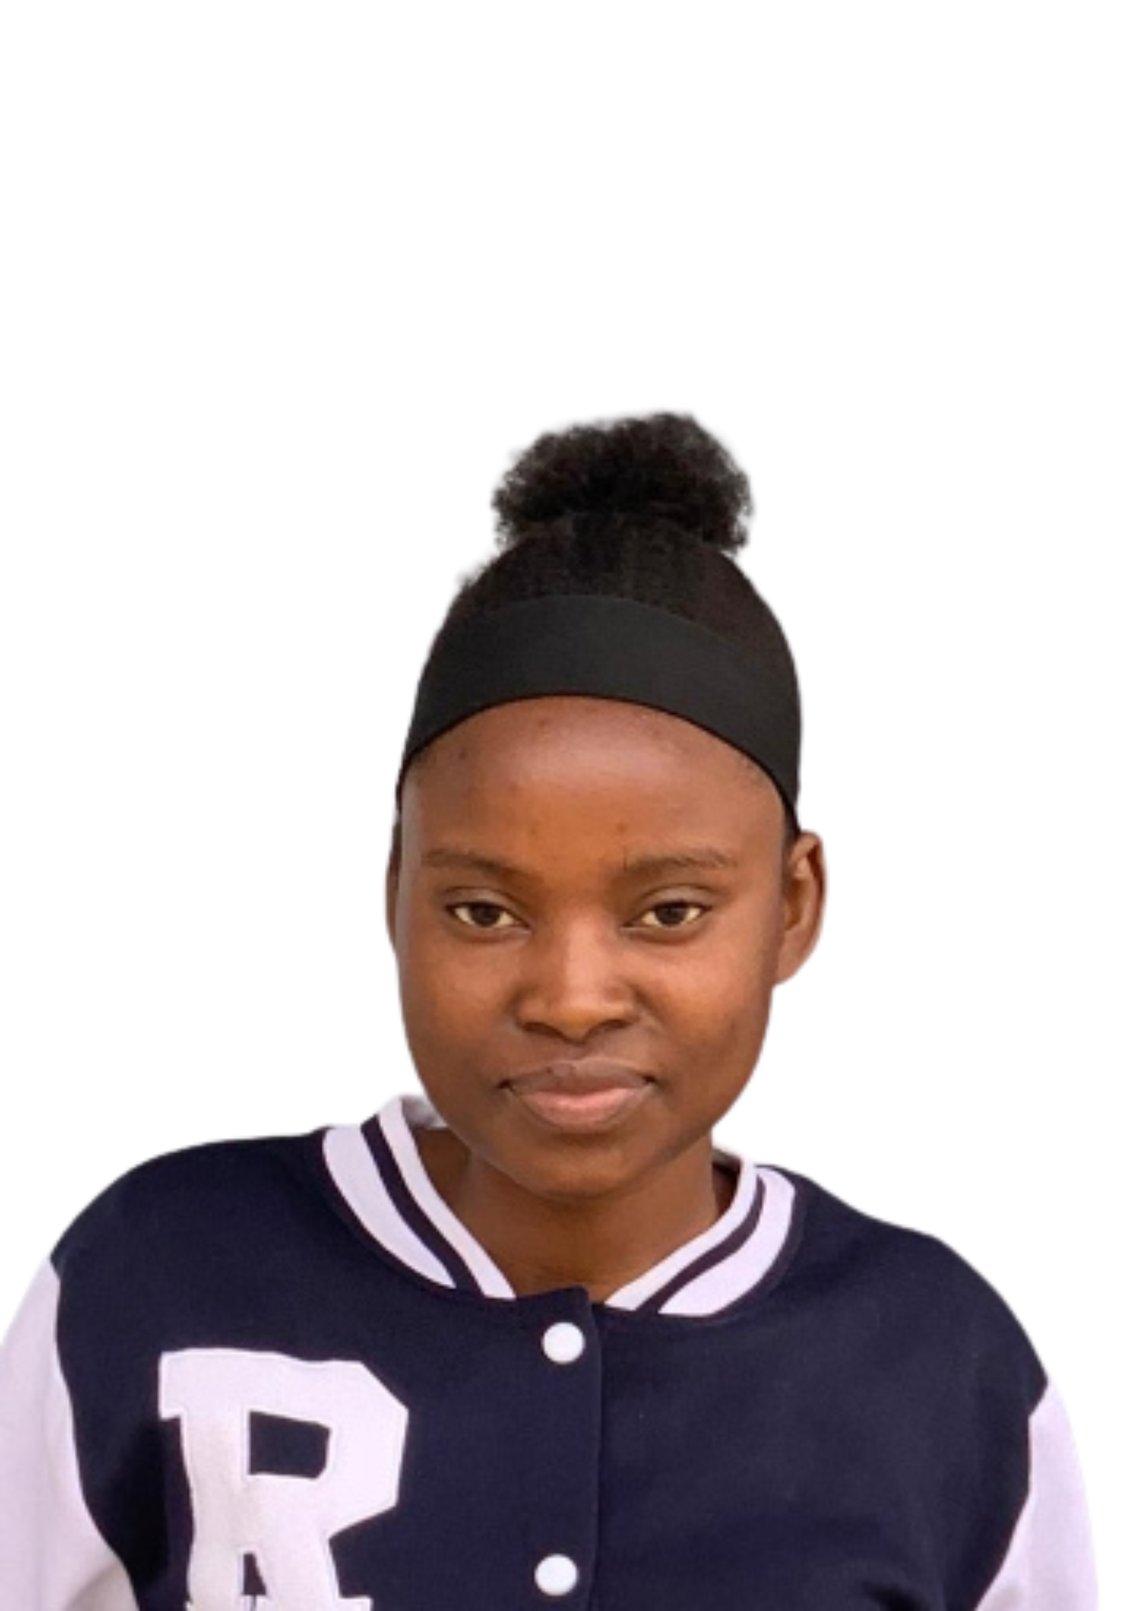
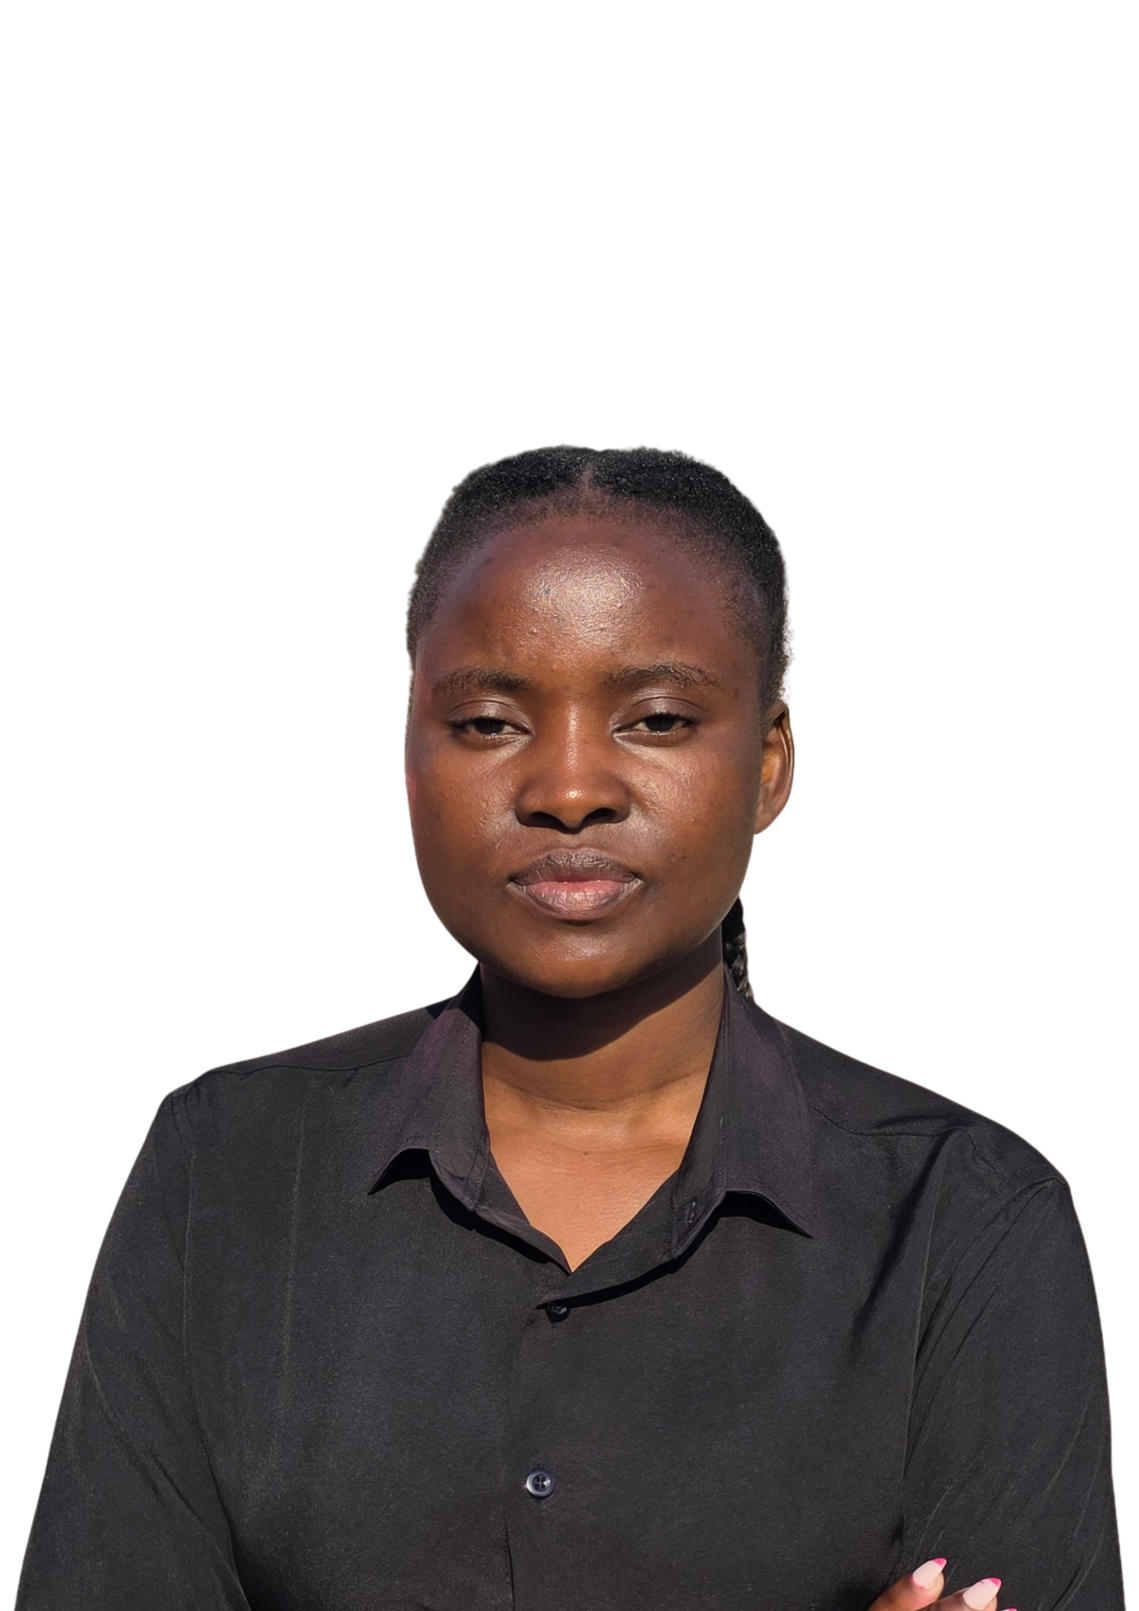
Patch 0.2.0

diff --git a/lib/organization-pages.ts b/lib/organization-pages.ts
@@ -52,28 +52,28 @@ export const organizationPages: Record<string, OrganizationPageData> = {
     ],
   },
   mifi: {
-    name: 'Mifi Business Solutions',
-    eyebrow: 'Mifi Business Solutions',
-    headline: 'Microfinance support through daily loans',
-    description: 'Mifi Business Solutions is a microfinance company specializing in daily loans for customers who need practical short-term financial support.',
+    name: 'Mifi Goods and Supply',
+    eyebrow: 'Mifi Goods and Supply',
+    headline: 'Goods and supply for everyday needs',
+    description: 'Mifi Goods and Supply sources and supplies practical goods for agents, businesses, and communities.',
     heroImage: '/images/hami-hero-mifi.png',
-    popular: ['Daily loans', 'Microfinance', 'Short-term support'],
-    stats: ['Loan support', 'Daily repayments', 'Customer service'],
+    popular: ['Goods supply', 'Product sourcing', 'Distribution'],
+    stats: ['Supply support', 'Reliable delivery', 'Agent service'],
     employerTitle: 'For Customers',
-    employerText: 'Access daily loan support designed for practical business and personal finance needs.',
+    employerText: 'Find practical goods and dependable supply support for your business needs.',
     candidateTitle: 'For Partners',
-    candidateText: 'Connect with Mifi Business Solutions for microfinance partnerships and customer support opportunities.',
+    candidateText: 'Connect with Mifi Goods and Supply for sourcing, distribution, and agent support opportunities.',
     categories: [
-      { title: 'Daily Loans', count: 'Core service', description: 'Short-term loans structured around daily repayment needs.' },
-      { title: 'Microfinance', count: 'Customer support', description: 'Accessible finance support for small businesses and individuals.' },
-      { title: 'Loan Processing', count: 'Service desk', description: 'Customer onboarding, loan review, and repayment coordination.' },
-      { title: 'Financial Support', count: 'Daily service', description: 'Practical assistance for cash flow and short-term needs.' },
+      { title: 'Goods Supply', count: 'Core service', description: 'Practical goods sourced for businesses and everyday needs.' },
+      { title: 'Product Sourcing', count: 'Supply support', description: 'Help finding the right products from reliable suppliers.' },
+      { title: 'Order Coordination', count: 'Service desk', description: 'Agent onboarding, order handling, and delivery coordination.' },
+      { title: 'Distribution Support', count: 'Daily service', description: 'Practical assistance getting goods where they are needed.' },
     ],
     opportunities: [
-      { title: 'Daily Loan Applications', meta: 'Microfinance service', location: 'Zambia', value: 'Active' },
-      { title: 'Customer Onboarding', meta: 'Loan support', location: 'Zambia', value: 'Open' },
-      { title: 'Repayment Coordination', meta: 'Daily loan service', location: 'Regional', value: 'Available' },
-      { title: 'Microfinance Partnerships', meta: 'Mifi support', location: 'Remote / On-site', value: 'Open' },
+      { title: 'Goods Orders', meta: 'Supply service', location: 'Zambia', value: 'Active' },
+      { title: 'Agent Onboarding', meta: 'Supply support', location: 'Zambia', value: 'Open' },
+      { title: 'Delivery Coordination', meta: 'Goods distribution', location: 'Regional', value: 'Available' },
+      { title: 'Supply Partnerships', meta: 'Mifi support', location: 'Remote / On-site', value: 'Open' },
     ],
   },
   hamiz: {

diff --git a/app/page.tsx b/app/page.tsx
@@ -25,14 +25,14 @@ const categories = [
   { label: 'Overview', href: '/' },
   { label: 'Agrovert', href: '/agrovert' },
   { label: 'Hami Farms', href: '/farms' },
-  { label: 'Mifi Business Solutions', href: '/mifi' },
+  { label: 'Mifi Goods and Supply', href: '/mifi' },
   { label: 'Hamiz Motors', href: '/hamiz' },
   { label: 'Mipro', href: '/mipro' },
 ]
 
 const organizations = [
   { name: 'Hami General Dealers', mark: 'HGD', plainText: 'HGD - Hami General Dealers', color: 'text-emerald-700' },
-  { name: 'Mifi Business Solutions', mark: 'MBS', plainText: 'MBS - Mifi Business Solutions', color: 'text-sky-700' },
+  { name: 'Mifi Goods and Supply', mark: 'MGS', plainText: 'MGS - Mifi Goods and Supply', color: 'text-sky-700' },
   { name: 'Hamiz Motors and Logistics', mark: 'HML', plainText: 'HML - Hamiz Motors and Logistics', color: 'text-orange-600' },
   { name: 'Hami Agrovet', mark: 'HA', plainText: 'HA - Hami Agrovet', color: 'text-lime-700' },
   { name: 'Hami Farms', mark: 'HF', plainText: 'HF - Hami Farms', color: 'text-teal-700' },
@@ -51,7 +51,7 @@ const aboutSlides = [
   },
   {
     title: 'Business finance',
-    text: 'Microfinance services and daily loan support through Mifi Business Solutions.',
+    text: 'Practical goods, sourcing, and distribution through Mifi Goods and Supply.',
     image: '/images/hami-hero-mifi.png',
   },
   {
@@ -93,9 +93,9 @@ const serviceCards = [
     art: 'from-amber-100 via-orange-50 to-white',
   },
   {
-    title: 'Microfinance services specializing in daily loans',
+    title: 'Goods sourcing and supply for everyday needs',
     manager: 'Miyanda Hamimbo',
-    category: 'Mifi Business Solutions',
+    category: 'Mifi Goods and Supply',
     icon: TrendingUp,
     price: 'Connected',
     oldPrice: '',
@@ -113,7 +113,7 @@ const serviceCards = [
     art: 'from-violet-100 via-fuchsia-50 to-white',
   },
   {
-    title: 'Client support, partnerships, and growth coordination',
+    title: 'Agent support, partnerships, and growth coordination',
     manager: 'Choolwe Mwiinga',
     category: 'Consulting',
     icon: Sprout,
@@ -149,7 +149,7 @@ export default function Home() {
                 Grow from anywhere, and build your brighter business.
               </h1>
               <p className="mt-6 max-w-md text-sm leading-7 text-slate-600">
-                Hami General Dealers brings Agrovert farm inputs, poultry and cattle production, microfinance daily loans, motorbikes, parts, rider gear, IT, media, and brand support together for customers ready to move.
+                Hami General Dealers brings Agrovert farm inputs, poultry and cattle production, goods supply, motorbikes, parts, rider gear, IT, media, and brand support together for customers ready to move.
               </p>
               <Link
                 href="/consult"
@@ -476,7 +476,7 @@ export default function Home() {
                 <div>
                   <p className="text-sm font-semibold text-emerald-700">Become A Partner</p>
                   <h2 className="mt-3 text-2xl font-extrabold leading-tight text-slate-950 md:text-3xl">
-                    You can grow with Hami as a supplier or client?
+                    You can grow with Hami as a supplier or agent?
                   </h2>
                   <div className="mt-1 h-4 w-36 rounded-full border-b-2 border-emerald-700" />
                 </div>

diff --git a/app/(main)/our-work/page.tsx b/app/(main)/our-work/page.tsx
@@ -7,7 +7,7 @@ import { ArrowRight, CheckCircle } from 'lucide-react'
 
 export const metadata = {
   title: 'Our Work - Hami General Dealers',
-  description: 'Discover our services across Agrovert farm inputs, poultry and cattle production, microfinance daily loans, motors, IT, and media support.',
+  description: 'Discover our services across Agrovert farm inputs, poultry and cattle production, goods supply, motors, IT, and media support.',
 }
 
 export default function OurWork() {
@@ -22,7 +22,7 @@ export default function OurWork() {
               Our Work & Services
             </h1>
             <p className="text-xl text-white/90 max-w-3xl text-balance">
-              Comprehensive solutions across agriculture, microfinance, mobility, and community development.
+              Comprehensive solutions across agriculture, goods supply, mobility, and community development.
             </p>
           </div>
         </section>
@@ -86,27 +86,27 @@ export default function OurWork() {
               </div>
               <div>
                 <h2 className="text-3xl md:text-4xl font-bold text-foreground mb-6 text-balance">
-                  Microfinance Solutions
+                  Goods and Supply
                 </h2>
                 <p className="text-muted-foreground mb-6">
-                  Mifi Business Solutions is a microfinance company specializing in daily loans for customers who need practical short-term financial support.
+                  Mifi Goods and Supply sources and supplies practical goods for agents, businesses, and communities.
                 </p>
                 <ul className="space-y-3 mb-8">
                   <li className="flex items-start gap-3">
                     <CheckCircle className="w-5 h-5 text-primary mt-1 flex-shrink-0" />
-                    <span className="text-foreground">Daily loan services</span>
+                    <span className="text-foreground">Goods supply services</span>
                   </li>
                   <li className="flex items-start gap-3">
                     <CheckCircle className="w-5 h-5 text-primary mt-1 flex-shrink-0" />
-                    <span className="text-foreground">Microfinance customer support</span>
+                    <span className="text-foreground">Product sourcing support</span>
                   </li>
                   <li className="flex items-start gap-3">
                     <CheckCircle className="w-5 h-5 text-primary mt-1 flex-shrink-0" />
-                    <span className="text-foreground">Short-term financial support</span>
+                    <span className="text-foreground">Distribution support</span>
                   </li>
                   <li className="flex items-start gap-3">
                     <CheckCircle className="w-5 h-5 text-primary mt-1 flex-shrink-0" />
-                    <span className="text-foreground">Loan processing and repayment coordination</span>
+                    <span className="text-foreground">Order handling and delivery coordination</span>
                   </li>
                 </ul>
                 <Link

diff --git a/lib/data.ts b/lib/data.ts
@@ -75,13 +75,13 @@ export const blogPosts: BlogPost[] = [
   },
   {
     id: '3',
-    title: 'Quality Service and Client Satisfaction',
-    excerpt: 'Hami General Dealers operates in a competitive market by placing high value on quality service, reliable delivery, and client satisfaction.',
+    title: 'Quality Service and Agent Satisfaction',
+    excerpt: 'Hami General Dealers operates in a competitive market by placing high value on quality service, reliable delivery, and agent satisfaction.',
     content: 'The company has effective distribution channels that enable timely provision of agricultural inputs, products, and services to customers.',
     author: 'Hami General Dealers',
     date: '2026-06-25',
     category: 'Technology',
-    slug: 'quality-service-client-satisfaction',
+    slug: 'quality-service-agent-satisfaction',
   },
   {
     id: '4',
@@ -106,7 +106,7 @@ export const blogPosts: BlogPost[] = [
   {
     id: '6',
     title: 'Hami General Dealers Vision',
-    excerpt: 'We aim to offer clients world-class service, fair pricing, and strong belief in the products, equipment, and services we provide.',
+    excerpt: 'We aim to offer agents world-class service, fair pricing, and strong belief in the products, equipment, and services we provide.',
     content: 'Hami General Dealers works in an equal opportunity environment and encourages entrepreneurial flair.',
     author: 'Hami General Dealers',
     date: '2026-06-25',
@@ -325,16 +325,16 @@ export const subOrganizations = {
     image: '/images/agrovert-hero.jpg',
   },
   mifi: {
-    name: 'Hami Mifi',
-    tagline: 'Microfinance and Daily Loans',
-    description: 'Mifi is a microfinance company specializing in daily loans for customers who need practical short-term financial support.',
-    mission: 'To provide accessible daily loan services with practical customer support.',
+    name: 'Mifi Goods and Supply',
+    tagline: 'Goods and Supply',
+    description: 'Mifi sources and supplies practical goods for agents, businesses, and communities.',
+    mission: 'To provide dependable goods and supply support with practical agent service.',
     services: [
-      'Daily loans',
-      'Microfinance services',
-      'Short-term financial support',
-      'Customer onboarding',
-      'Repayment coordination',
+      'Goods supply',
+      'Product sourcing',
+      'Distribution support',
+      'Agent onboarding',
+      'Order coordination',
     ],
     image: '/images/mifi-hero.jpg',
   },
@@ -369,7 +369,7 @@ export const testimonials: Testimonial[] = [
     name: 'Market Partner',
     role: 'Marketeer',
     company: 'Zambia',
-    quote: 'The team values quality service and client satisfaction, which makes them a practical supply partner.',
+    quote: 'The team values quality service and agent satisfaction, which makes them a practical supply partner.',
     image: '/images/testimonial-mary.jpg',
   },
   {

diff --git a/components/sections.tsx b/components/sections.tsx
@@ -73,7 +73,7 @@ export function WhoWeAreSection() {
               Hami General Dealers is a Zambian-owned enterprise registered in 2015 and committed to reliable agriculture, supply, and commercial service delivery.
             </p>
             <p className="text-lg text-muted-foreground mb-6">
-              Through Agrovert, Mifi, and Hami Farms, we support farmers, marketeers, businesses, and communities with products and services built around quality and client satisfaction.
+              Through Agrovert, Mifi, and Hami Farms, we support farmers, marketeers, businesses, and communities with products and services built around quality and agent satisfaction.
             </p>
             <div className="space-y-3">
               <div className="flex items-start gap-3">
@@ -92,7 +92,7 @@ export function WhoWeAreSection() {
                 <div className="w-6 h-6 rounded-full bg-primary/20 flex items-center justify-center flex-shrink-0 mt-1">
                   <div className="w-2 h-2 rounded-full bg-primary"></div>
                 </div>
-                <p className="text-foreground font-medium">Commitment to quality service and client satisfaction</p>
+                <p className="text-foreground font-medium">Commitment to quality service and agent satisfaction</p>
               </div>
             </div>
           </div>
@@ -120,7 +120,7 @@ export function WhatWeDoSection() {
             What We Do
           </h2>
           <p className="text-lg text-muted-foreground max-w-2xl mx-auto">
-            Our services span Agrovert farm inputs, poultry and cattle production, microfinance daily loans, motors, IT, and media support.
+            Our services span Agrovert farm inputs, poultry and cattle production, goods supply, motors, IT, and media support.
           </p>
         </div>
 
@@ -185,7 +185,7 @@ export function HistorySection() {
             <div className="flex-grow">
               <h3 className="text-xl font-bold text-primary mb-2">2019 - Expansion</h3>
               <p className="text-muted-foreground">
-                Expanded operations with Hami Farms for poultry and cattle production and Mifi for microfinance daily loans.
+                Expanded operations with Hami Farms for poultry and cattle production and Mifi for goods supply.
               </p>
             </div>
           </div>
@@ -197,7 +197,7 @@ export function HistorySection() {
             <div className="flex-grow">
               <h3 className="text-xl font-bold text-primary mb-2">2024 - Future Forward</h3>
               <p className="text-muted-foreground">
-                Continuing to improve farm inputs, poultry and cattle production, daily loan support, motors, and project services.
+                Continuing to improve farm inputs, poultry and cattle production, goods supply, motors, and project services.
               </p>
             </div>
           </div>

diff --git a/app/(main)/about/page.tsx b/app/(main)/about/page.tsx
@@ -36,7 +36,7 @@ const strengths = [
   },
   {
     title: 'Professional Team',
-    description: 'A hands-on group serving farmers, suppliers, clients, and communities.',
+    description: 'A hands-on group serving farmers, suppliers, agents, and communities.',
     icon: Users,
   },
 ]
@@ -45,7 +45,7 @@ const directors = [
   {
     name: 'Nchimunya iLLute Hamaimbo',
     role: 'Chief Executive Director',
-    image: '/images/Nchimunya-iLute-Hamaimbo.png',
+    image: '/images/Nchimunya-iLute-Hamaimbo.png?v=36de6225',
   },
   {
     name: 'Miyanda Hamimbo',
@@ -73,7 +73,7 @@ const managementTeam = [
   {
     name: 'Choolwe Mwiinga',
     role: 'Executive Business Officer',
-    image: '/images/Choolwe-Mwiinga.png',
+    image: '/images/Choolwe-Mwiinga.png?v=643f433d',
   },
   {
     name: 'Judith Hankombo',
@@ -93,7 +93,7 @@ const managementTeam = [
   {
     name: 'Wendy Maimbo',
     role: 'IT, Sales and Marketing Manager',
-    image: '/images/Wendy-Maimbo.png',
+    image: '/images/Wendy-Maimbo.png?v=cdedb0bf',
   },
   {
     name: 'Rajesh Ngandu',
@@ -320,7 +320,7 @@ export default function About() {
             <div className="grid gap-6 md:grid-cols-2 lg:grid-cols-5">
               {[
                 ['Hami Agrovert', 'Chicks, vaccines, drugs, feed, and consultations.', '/agrovert', Leaf],
-                ['Mifi Business Solutions', 'Microfinance services specializing in daily loans.', '/mifi', ShieldCheck],
+                ['Mifi Goods and Supply', 'Practical goods, sourcing, and distribution support.', '/mifi', ShieldCheck],
                 ['Hami Farms', 'Poultry farming and cattle production.', '/farms', CheckCircle2],
                 ['Hamiz Motors', 'Motorbikes, parts, riding clothes, gloves, and boots.', '/hamiz', BriefcaseBusiness],
                 ['Mipro', 'IT, media, digital content, and brand communication.', '/mipro', Users],

diff --git a/components/organization-page.tsx b/components/organization-page.tsx
@@ -81,7 +81,7 @@ export default function OrganizationPage({ data }: { data: OrganizationPageData 
               </div>
 
               <div className="mt-14">
-                <p className="text-sm font-semibold text-slate-500">Trusted by leading partners and clients</p>
+                <p className="text-sm font-semibold text-slate-500">Trusted by leading partners and agents</p>
                 <div className="mt-4 flex flex-wrap gap-5 text-sm font-black text-slate-800">
                   {data.stats.map((stat) => (
                     <span key={stat} className="inline-flex items-center gap-2">
@@ -108,7 +108,7 @@ export default function OrganizationPage({ data }: { data: OrganizationPageData 
                 <span className="text-sm font-extrabold text-slate-800">Opportunity Alert</span>
               </div>
               <div className="absolute bottom-16 right-2 rounded-md bg-white px-5 py-4 shadow-xl sm:right-10">
-                <div className="text-sm font-black text-slate-900">5k+ clients connected</div>
+                <div className="text-sm font-black text-slate-900">5k+ agents connected</div>
                 <div className="mt-3 flex -space-x-2">
                   {['HG', 'AG', 'MF', 'HM'].map((item) => (
                     <span key={item} className="flex h-8 w-8 items-center justify-center rounded-full border-2 border-white bg-emerald-100 text-[10px] font-black text-emerald-800">

diff --git a/components/footer.tsx b/components/footer.tsx
@@ -6,7 +6,7 @@ const footerLinks = {
   Organizations: [
     { href: '/agrovert', label: 'Agrovert' },
     { href: '/farms', label: 'Hami Farms' },
-    { href: '/mifi', label: 'Mifi Business Solutions' },
+    { href: '/mifi', label: 'Mifi Goods and Supply' },
     { href: '/hamiz', label: 'Hamiz Motors' },
     { href: '/mipro', label: 'Mipro' },
   ],
@@ -90,7 +90,7 @@ export default function Footer() {
               />
             </Link>
             <p className="mt-4 max-w-xs text-sm leading-6 text-slate-500">
-              Your group for Agrovert farm inputs, poultry and cattle production, microfinance daily loans, motorbikes, parts, gear, IT, and media support.
+              Your group for Agrovert farm inputs, poultry and cattle production, goods supply, motorbikes, parts, gear, IT, and media support.
             </p>
             <div className="mt-6 flex items-center gap-3">
               {socials.map((social) => {

diff --git a/app/layout.tsx b/app/layout.tsx
@@ -3,8 +3,8 @@ import type { Metadata } from 'next'
 import './globals.css'
 
 export const metadata: Metadata = {
-  title: 'Hami General Dealers - Agriculture, Microfinance & Motors',
-  description: 'Hami General Dealers brings together Agrovert farm inputs, poultry and cattle production, Mifi daily loans, Hamiz Motors, IT, and media support.',
+  title: 'Hami General Dealers - Agriculture, Goods & Motors',
+  description: 'Hami General Dealers brings together Agrovert farm inputs, poultry and cattle production, Mifi goods supply, Hamiz Motors, IT, and media support.',
   icons: {
     icon: '/images/logo-hami.png',
     shortcut: '/images/logo-hami.png',

diff --git a/app/(main)/team/page.tsx b/app/(main)/team/page.tsx
@@ -128,7 +128,7 @@ export default function Team() {
               <div className="bg-white rounded-lg p-8 border border-border">
                 <h3 className="text-xl font-bold text-foreground mb-4">Impact Driven</h3>
                 <p className="text-muted-foreground">
-                  Every team member is committed to creating positive change through agriculture, microfinance, motors, IT, and media support.
+                  Every team member is committed to creating positive change through agriculture, goods supply, motors, IT, and media support.
                 </p>
               </div>
             </div>

diff --git a/app/(main)/mifi/page.tsx b/app/(main)/mifi/page.tsx
@@ -2,8 +2,8 @@ import OrganizationPage from '@/components/organization-page'
 import { organizationPages } from '@/lib/organization-pages'
 
 export const metadata = {
-  title: 'Mifi Business Solutions - Microfinance & Daily Loans',
-  description: 'Discover Mifi Business Solutions, a microfinance company specializing in daily loans.',
+  title: 'Mifi Goods and Supply - Goods and Supply',
+  description: 'Discover Mifi Goods and Supply, providing practical goods, sourcing, and distribution support.',
 }
 
 export default function Mifi() {

diff --git a/app/(main)/media/photo-gallery/page.tsx b/app/(main)/media/photo-gallery/page.tsx
@@ -12,7 +12,7 @@ const photos = [
   { title: 'Hami General Dealers', src: teamImage },
   { title: 'Hami Agrovet', src: '/images/hami-hero-agro.png' },
   { title: 'Hami Farms', src: '/images/hami-hero-farm.png' },
-  { title: 'Mifi Business Solutions', src: '/images/hami-hero-mifi.png' },
+  { title: 'Mifi Goods and Supply', src: '/images/hami-hero-mifi.png' },
   { title: 'Hamiz Motors and Logistics', src: '/images/hami-hero-hamiz.png' },
   { title: 'Customer Support', src: '/images/hami-hero-home.png' },
 ]
